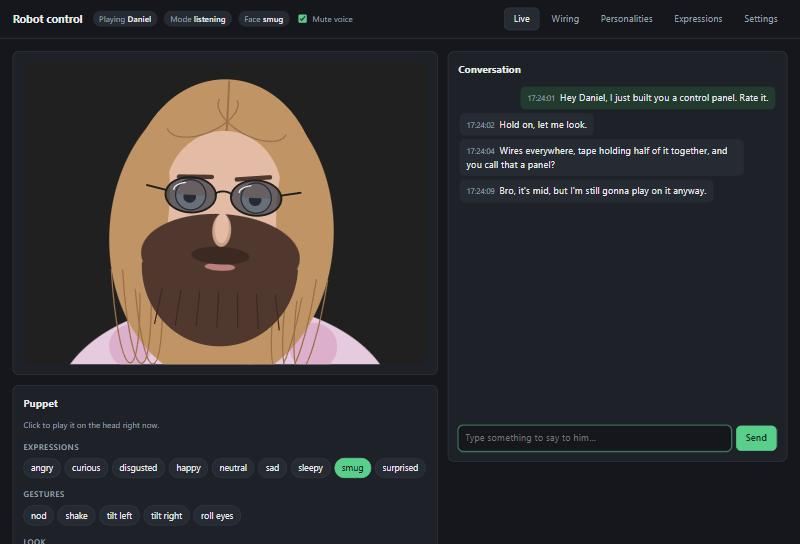
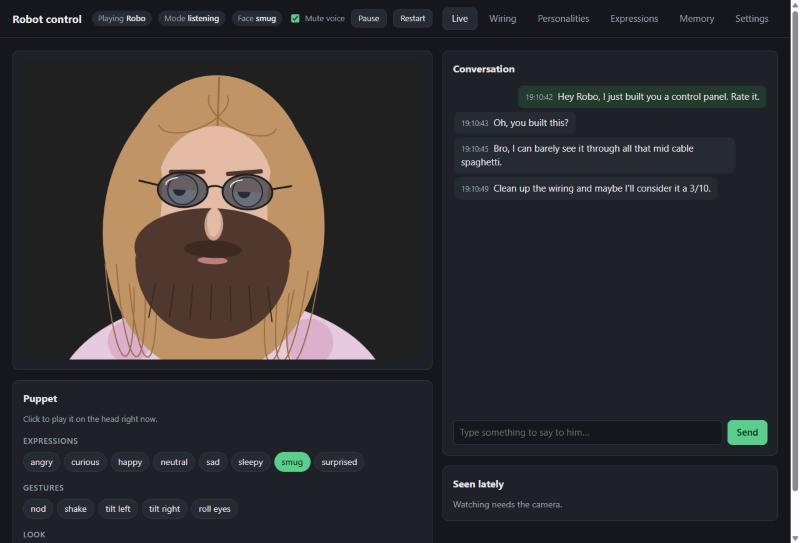
Keep the README general instead of naming the character

diff --git a/README.md b/README.md
@@ -2,9 +2,9 @@
 
 A prototype brain for an LLM-driven animatronic head. It listens through your microphone, sees through your webcam, answers with a voice, and moves a head. For now the head is a cartoon in the browser-based control panel; later it can drive real servos on a Raspberry Pi without any code changes.
 
-Out of the box it's **Daniel**: a mean, edgy gamer with long hair, a big beard and sunglasses he never takes off, who judges everything you do. Swap him for someone else, or write your own characters, in the control panel.
+Its character is just a system prompt: write your own personalities in the control panel and switch between them at any time.
 
-![The control panel's Live tab: Daniel looking smug, the conversation beside him, and puppet buttons below](docs/control-panel.jpg)
+![The control panel's Live tab: the head looking smug, the conversation beside it, and puppet buttons below](docs/control-panel.jpg)
 
 The **Wiring** tab shows the real build, live: the Raspberry Pi, the PCA9685 servo board, the servo power supply, and every servo where it sits in the head, with its channel, angle and pulse width. Servos glow green while they move.
 
@@ -46,7 +46,7 @@ While it runs, open **http://127.0.0.1:8765** in a browser:
 
 - **Live**: the head itself, moving in real time, with the camera's view in the corner (the tracked face is boxed in green). Next to it: everything it hears and says, a box to type to it (handy for testing a prompt without talking), a mute switch, and puppet buttons that play any expression, gesture or glance on the head right away.
 - **Wiring**: how the real build is hooked up, animated live. It shows Raspberry Pi pins 1, 3, 5 and 6 going to the PCA9685, the separate servo power supply, and each servo where it sits in the head (lids above the eyes, the eye servos between them, the jaw at its hinge, the three neck servos stacked in the neck). Each servo shows its channel, model, live angle and pulse width, and its arm turns as it moves.
-- **Personalities**: create, edit, duplicate and delete characters, and switch between them instantly. Each one has a name, the name it answers to, a voice and speed (empty uses the defaults from Settings), and its system prompt. They're stored in `robot.db`. The first one is imported from `personality.md`, and a friendly example called Bolt comes along.
+- **Personalities**: create, edit, duplicate and delete characters, and switch between them instantly. Each one has a name, the name it answers to, a voice and speed (empty uses the defaults from Settings), and its system prompt. They're stored in `robot.db`. The first one is imported from `personality.md`, and a second example comes along.
 - **Expressions**: every facial expression is a set of five values: eyelid openness, chin tilt, head lean, and where the eyes drift sideways and up or down. Drag a slider and the head shows the result live; save to keep it. Add your own, and they become cues the LLM can use.
 - **Memory**: everyone it has met, closest match first, with a dot on whoever is in view right now. Pick someone to see what it remembers about them: facts, preferences, habits, plans, and one-line summaries of past conversations. Edit or delete any memory, or add your own; memories you wrote or edited are never changed by the model. Name a person, merge two entries that turned out to be the same person, or forget someone completely (face, memories and journal). **Think it over** turns everything since the last time into memories right away instead of waiting.
 - **Settings**: everything from `.env`, grouped and explained. Most changes apply immediately; the ones marked *restart* (devices, recognition and voice engines, motors) take effect after a restart, which **Save and restart** does in one go.
@@ -57,10 +57,10 @@ The panel only listens on this computer by default, because the settings include
 
 ## Talking to it
 
-- **Say its name to get its attention**, like "Hey Daniel, what do you think of my setup?". Anything said without the name is ignored, and the console shows it as `(not talking to me: …)`. Each personality has its own name; leave it empty to have it answer everything.
+- **Say its name to get its attention**, like "Hey Robo, what do you think of my setup?". Anything said without the name is ignored, and the console shows it as `(not talking to me: …)`. Each personality has its own name; leave it empty to have it answer everything.
 - **Then just keep talking.** After it answers, it listens without the name for `FOLLOW_UP_SECONDS` (20 s). Its eyelids droop when it stops paying attention.
 - **Interrupt it any time.** Talk over it for about a third of a second and it stops mid-sentence and listens. Its own voice is removed from the microphone with WebRTC echo cancellation (the same one browsers use for video calls), so this works through speakers, not just headphones.
-- **It judges you unprompted.** If it can see you and nobody has said anything for `REMARK_AFTER_SECONDS` (45 s), it comments on whatever you're doing. Each time you ignore it, it waits twice as long before the next one.
+- **It speaks up unprompted.** If it can see you and nobody has said anything for `REMARK_AFTER_SECONDS` (45 s), it comments on whatever you're doing. Each time you ignore it, it waits twice as long before the next one.
 - **It watches what you do and recommends things.** Every 30 seconds it takes 9 frames spread over that time, puts them side by side in one picture so the model sees an action rather than a pose, and asks what you're doing ("eating chips while scrolling on a phone"). That builds a timeline, shown under *Seen lately* on the Live tab, which goes into every conversation. When you start something new, or keep doing one thing for 20 minutes, it gives you one concrete recommendation that fits, at most every 5 minutes and only once nobody has talked for 10 seconds. If the picture hasn't changed it doesn't ask the model again, so an empty or still room costs nothing. Every number, a separate model for watching, and what kind of things to recommend are under *Settings → Watching*, and all of them apply live.
 - **It remembers you, and tells people apart.** It recognizes faces (OpenCV's SFace model, which turns a face into 128 numbers), so it knows whether it's talking to you or your roommate, and meets someone new only after seeing an unknown face three looks in a row. Tell it your name and it ties the name to your face. Everything said and seen goes into a journal; a minute after a conversation ends it thinks it over with one LLM call per person and keeps what is worth knowing weeks later ("Has a LAN party on Sat 7 Nov", "Usually plays guitar after dinner"), corrects what changed, and forgets what was wrong. What it remembers about whoever is in front of it goes into every reply, along with summaries of your last five conversations. Settings are under *Settings → Memory*.
 
@@ -105,7 +105,7 @@ Cues the model can use:
 
 - **Character**: write and switch personalities in the control panel. The prompt you write comes first in the system prompt; the rules for speaking aloud, the camera and the cues are added after it automatically. `personality.md` is only read once, to create the first personality.
 - **Expressions**: when no expression fits, the model invents one mid-sentence, like `[disgusted lids=0.3 tilt=0.1 roll=-0.2 look=0,-0.3]`. It plays right away, is saved (marked *llm* in the panel), and works as `[disgusted]` from then on. It never overwrites expressions you made or edited, and it can keep at most 40 of its own.
-- **Look**: the face and the wiring diagram are drawn in the browser, in `robot_head/web/index.html` (`faceSVG` and the Wiring section). The face's colors are in `C` and `LENS_TINT` sets how dark the sunglasses are; `SPOTS` places each servo in the head on the diagram.
+- **Look**: the face and the wiring diagram are drawn in the browser, in `robot_head/web/index.html` (`faceSVG` and the Wiring section). The face's colors are in `C` and `LENS_TINT` sets how dark the glasses are; `SPOTS` places each servo in the head on the diagram.
 - **Model**: any OpenRouter model that accepts images works; set `OPENROUTER_MODEL` in `.env`. Every reply prints `[brain] first words after …s`, so you can compare how quickly models respond. `REASONING_EFFORT=none` (the default) keeps replies quick: with Haiku 5.5 and a camera frame it started talking after about 1 s, while `low` took 3–6 s. Models that always think, like the Gemini Flash family, need `low` instead.
 - **Voice**: [Kokoro](https://huggingface.co/hexgrad/Kokoro-82M) is the default engine. It runs locally and sounds far more natural than Piper. Pick a voice with `TTS_VOICE` (`--list-voices` lists them; male ones start with `am_` for American or `bm_` for British) and set the pace with `TTS_SPEED`. `TTS_ENGINE=piper` switches to the lighter Piper voices.
 - **Speech recognition**: [NVIDIA Parakeet](https://huggingface.co/nvidia/parakeet-tdt-0.6b-v3) runs locally. On a Ryzen 5 5600X it transcribes a phrase in about 0.25 s, as accurately as Whisper models eight times slower. `STT_ENGINE=whisper` switches to Whisper for languages Parakeet doesn't know; set `STT_LANGUAGE` with it, or Whisper guesses the language on every phrase.
